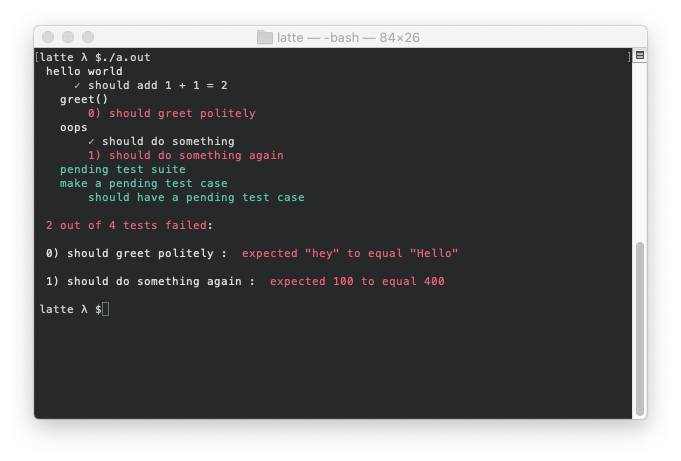
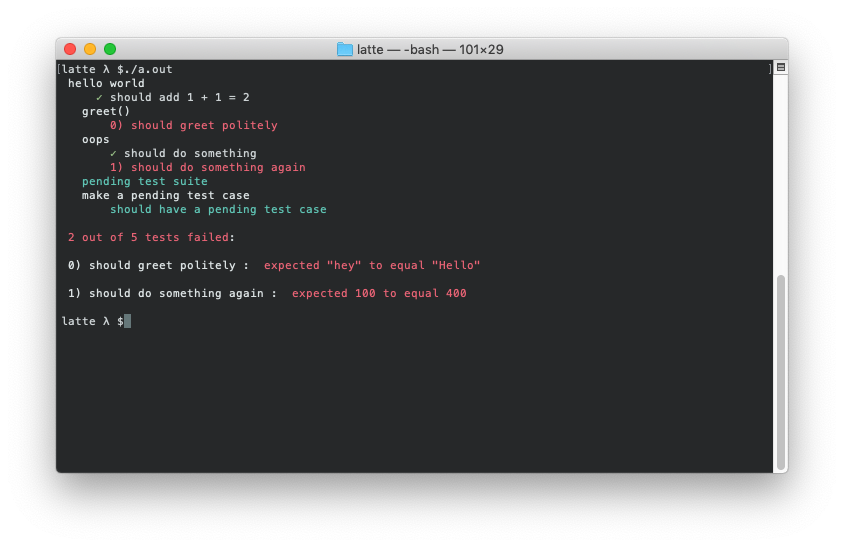
Fix reporter output
* Fixed an issue where test suites always stayed in the pending state.

* Replaced the image that reflected that change.

Changed region(s): [[0.0308, 0.0607, 0.9559, 0.9111], [0.4009, 0.577, 0.6476, 0.6377], [0.6167, 0.5466, 0.6784, 0.577]]

diff --git a/include/latte_core.hpp b/include/latte_core.hpp
@@ -50,9 +50,9 @@ struct latte_describe : public latte_test {
       before_(before),
       after_(after),
       before_each_(before_each),
-      after_each_(after_each){
-        event::latte_describe_emitter.emit(event::latte_event::describe_event_init);
-      };
+      after_each_(after_each) {
+    event::latte_describe_emitter.emit(event::latte_event::describe_event_init);
+  };
 
   ~latte_describe() = default;
   virtual void lock() {
@@ -109,7 +109,14 @@ struct latte_describe : public latte_test {
    * Adds describe()'s result to the list of test suites.
    */
   void add_result(const std::string& description) {
-    auto describe = std::make_shared<latte_describe_result>(description, latte_result_state::pending);
+    add_result(description, latte_result_state::pending);
+  }
+
+  /**
+   * Adds describe()'s result to the list of test suites.
+   */
+  void add_result(const std::string& description, latte_result_state state) {
+    auto describe = std::make_shared<latte_describe_result>(description, state);
     describe->depth_string_ = this->depth_string();
     this->test_cases_.push_back(describe);
   }
@@ -122,7 +129,7 @@ struct latte_describe : public latte_test {
   latte_before_each* before_each_ = nullptr;
   latte_after_each* after_each_ = nullptr;
   std::unordered_map<int, bool> only_map_;
-  
+
   virtual void pend(const std::string& description) {
     if (depth() == 0) {
       event::latte_describe_emitter.emit(event::describe_event_test_start);
@@ -141,7 +148,6 @@ struct latte_describe : public latte_test {
       event::latte_describe_emitter.emit(event::describe_event_test_end, this->test_suite_);
     }
     event::latte_describe_emitter.emit(event::describe_event_test_incremental_result, this->test_suite_);
-
   }
 
   using latte_test::execute;
@@ -150,7 +156,7 @@ struct latte_describe : public latte_test {
       event::latte_describe_emitter.emit(event::describe_event_test_start);
     }
 
-    add_result(description);
+    add_result(description, latte_result_state::passing);
     // Set describe()'s depth string
     _latte_state.add_depth();
     // Start the call to other functions.
@@ -194,8 +200,8 @@ struct latte_describe : public latte_test {
 struct latte_it : public latte_test {
   latte_it(latte_describe* describe) :
       describe_(describe) {
-        event::latte_it_emitter.emit(event::latte_event::it_event_init);
-      }
+    event::latte_it_emitter.emit(event::latte_event::it_event_init);
+  }
 
   virtual void lock() {
     locked = true;
@@ -206,12 +212,12 @@ struct latte_it : public latte_test {
   }
 
   virtual void only(const std::string& description) {
-   lock();
+    lock();
     this->pend(description);
   };
 
   virtual void only(const std::string& description, const type::latte_callback& function) {
-   lock();
+    lock();
     execute(description, function);
   };
 
@@ -219,7 +225,7 @@ struct latte_it : public latte_test {
 
   virtual void operator()(const std::string& description) {
     if (!is_locked()) {
-     this->pend(description);
+      this->pend(description);
     }
   }
 
@@ -245,13 +251,11 @@ struct latte_it : public latte_test {
   }
 
   void add_result(const std::string& description, exception::latte_exception error, latte_result_state state, double time) {
-    
-    if (state == latte_result_state::passing) {
-      this->describe_->test_cases_.back()->state_ = state;
-    } else if (state == latte_result_state::failing) {
+
+    if (state == latte_result_state::failing) {
       // Update the result_state for describe() if a test case fails.
       this->describe_->test_cases_.back()->state_ = state;
-    } 
+    }
     // Create the result for it()
     auto result = std::make_shared<latte_it_result>(description, error, state, time);
     // Set it()'s depth string
@@ -282,7 +286,7 @@ struct latte_it : public latte_test {
     describe_->before_each_->operator()(describe_->depth());
     double time = 0;
     try {
-      time = bench::time([&] () {
+      time = bench::time([&]() {
         function();
       });
     } catch (const exception::latte_exception& e) {
